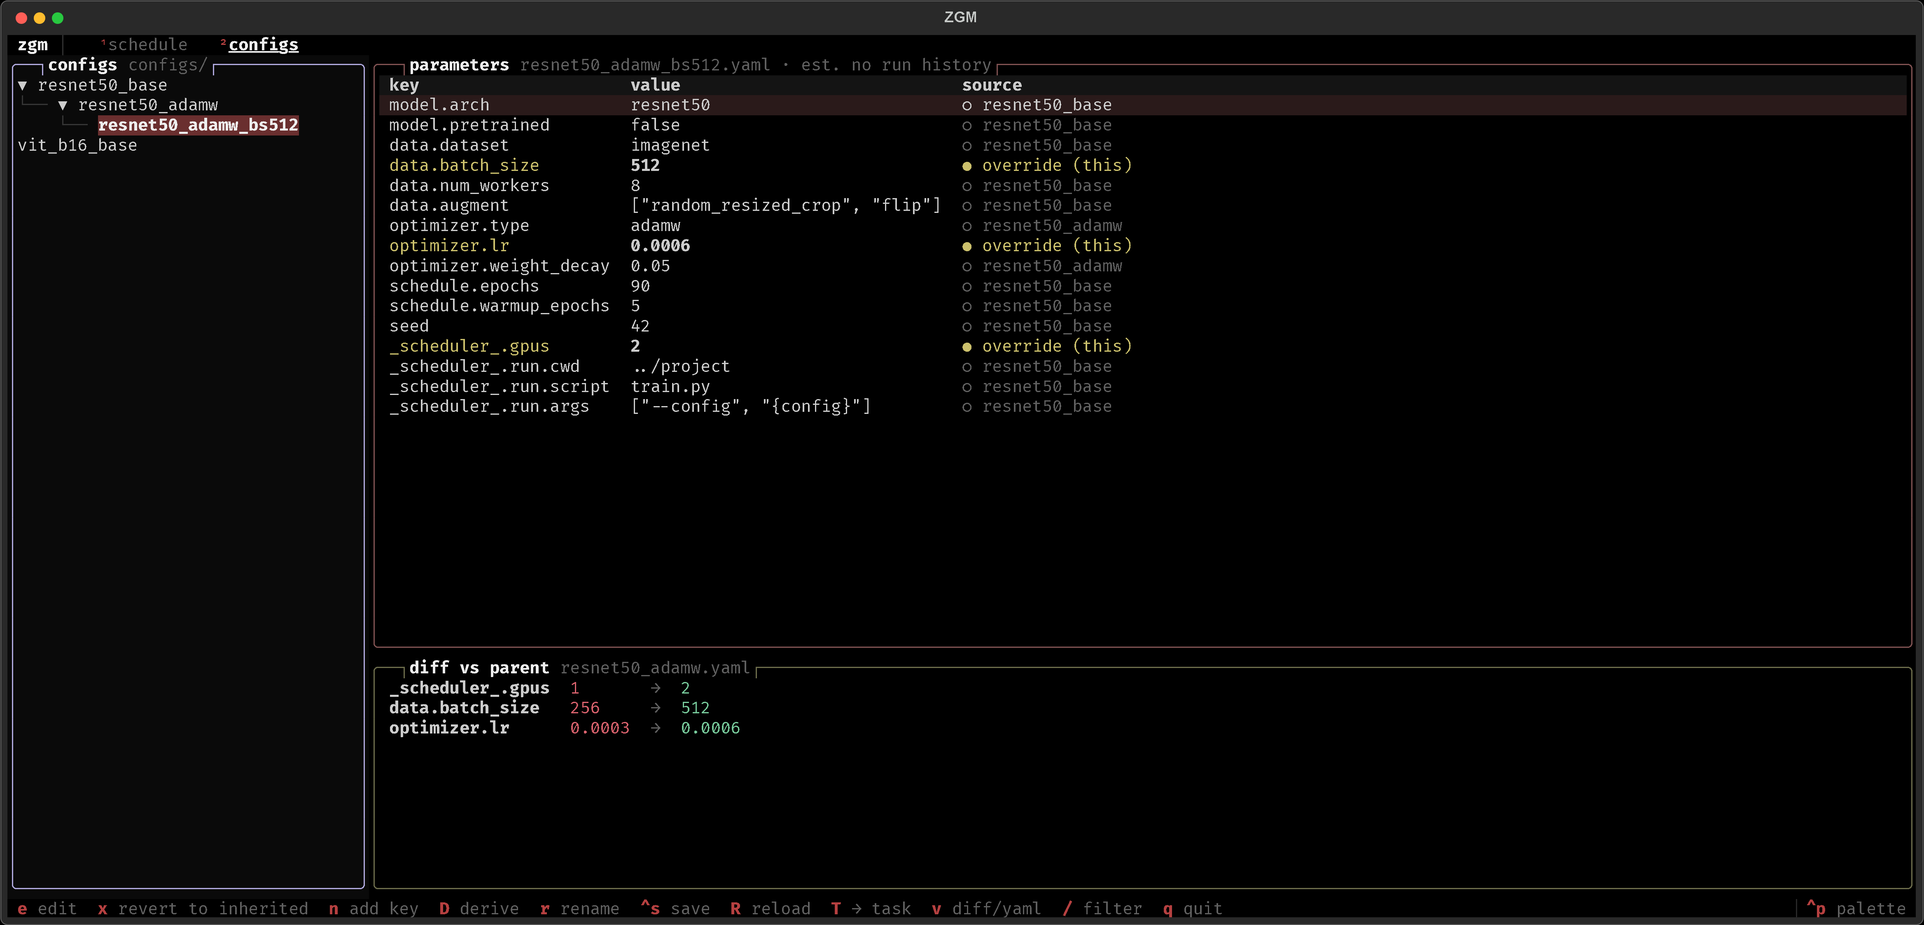
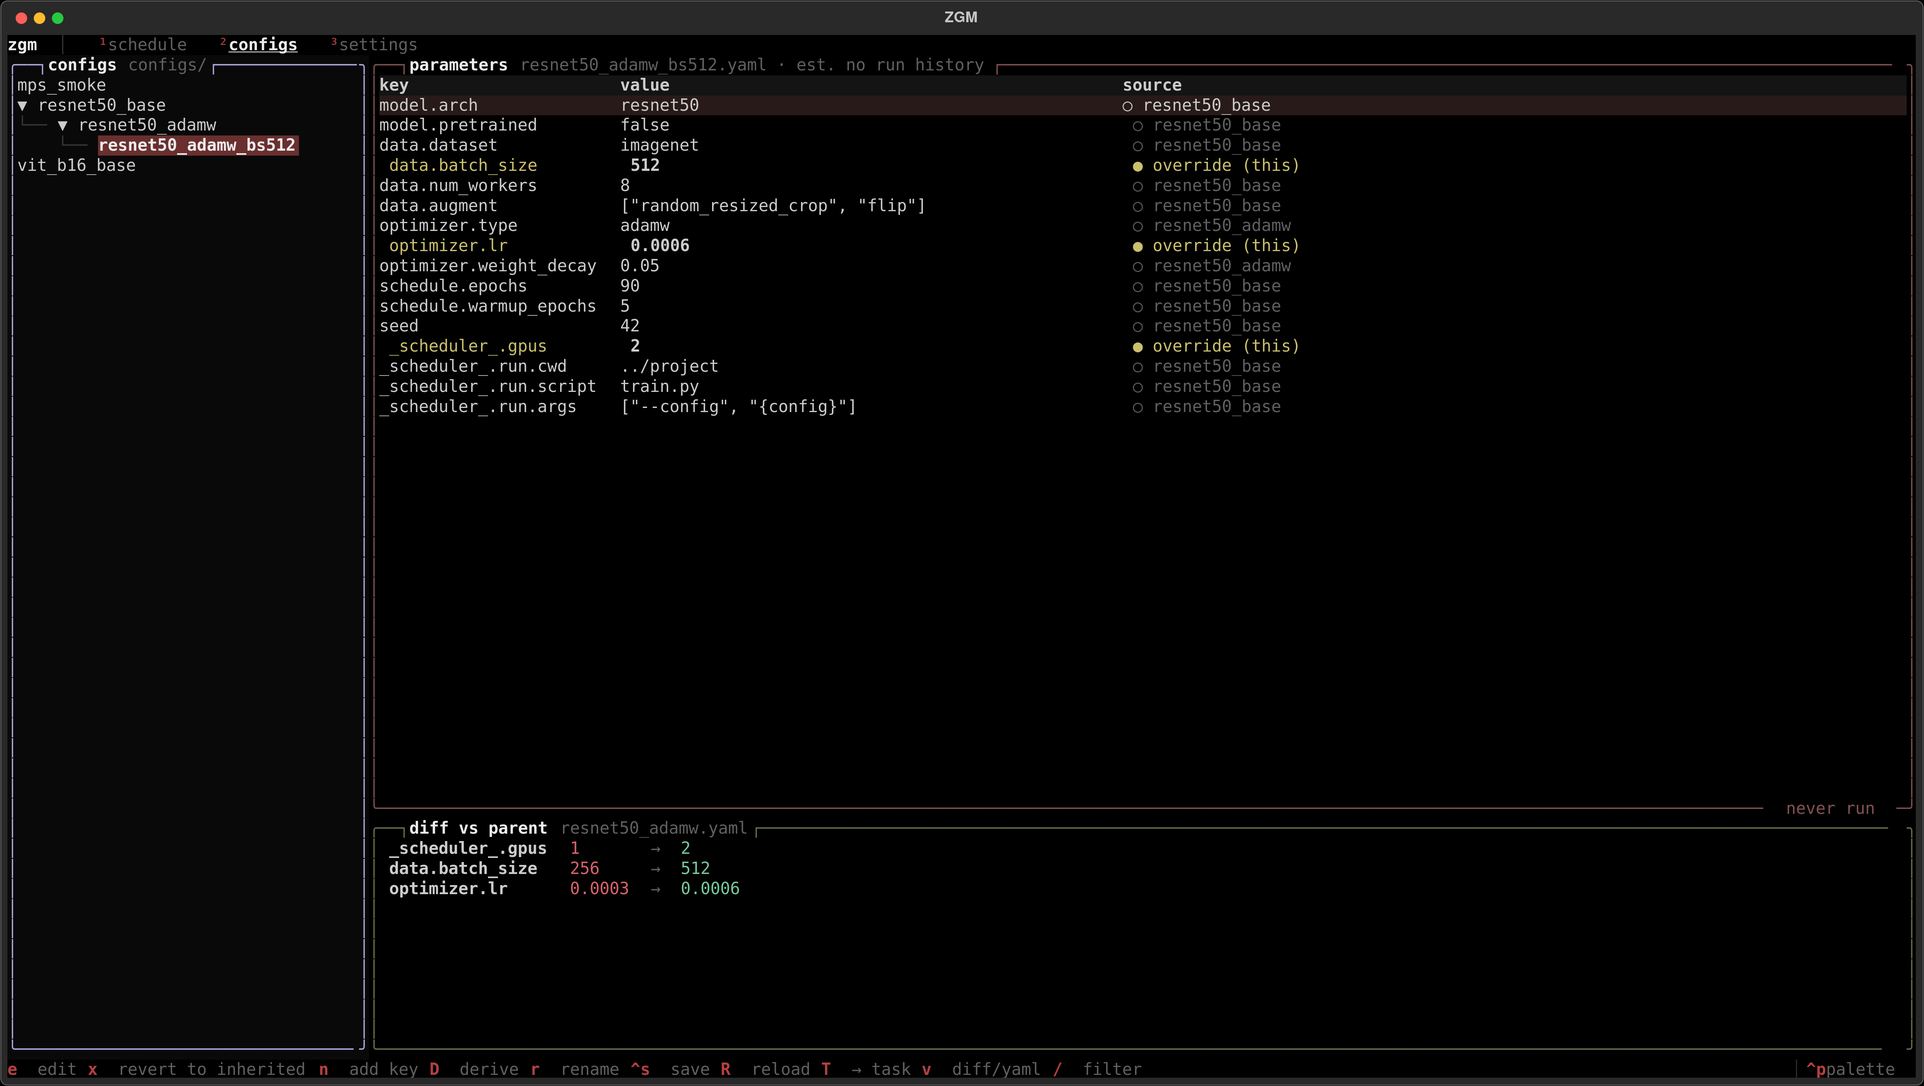
README: new screenshots and docs for the timeline modes
- Screenshots redone with scripts/make_screenshots.py: the time view with a
  selected run, the new task view, placing, and configs. The demo scene gets
  runs of a few minutes, a taller window (all four GPUs), and a made-up host
  name; without Chromium the script renders with rsvg-convert and keeps the
  PNGs small with a 256-colour palette.
- README, how-it-works and AGENTS describe the two timeline modes, now at
  70%, the rainbow selection, run-by-run and card-to-card keys, zooming
  around the selection, and where a new placement starts. how-it-works said
  `s` stops a task; it is `K`.
- Details no longer tell a finished run that it waits in the queue (failed
  and stopped runs, which do go back to it, still say so).

Claude-Session: https://claude.ai/code/session_01S2SjoknaHBsKbwFzc5VVDi

diff --git a/scripts/make_screenshots.py b/scripts/make_screenshots.py
@@ -2,9 +2,10 @@
 
     python scripts/make_screenshots.py [--browser PATH]
 
-Builds a demo scene (made-up tasks and GPUs, no real processes), renders the
-TUI to SVG with Textual, and turns each SVG into a sharp 2x PNG with a headless
-Chromium browser (Edge or Chrome; found automatically, or pass --browser).
+Builds a demo scene (made-up tasks, GPUs and host name, no real processes),
+renders the TUI to SVG with Textual, and turns each SVG into a sharp 2x PNG
+with a headless Chromium browser (Edge or Chrome; found automatically, or pass
+--browser), or with rsvg-convert where no Chromium is installed.
 Re-run it after changing the UI.
 """
 
@@ -15,6 +16,7 @@ import asyncio
 import os
 import re
 import shutil
+import socket
 import subprocess
 import sys
 import tempfile
@@ -24,9 +26,10 @@ from pathlib import Path
 
 ROOT = Path(__file__).resolve().parents[1]
 OUT = ROOT / "docs" / "images"
-SIZE = (190, 44)
+SIZE = (190, 52)
 
 os.environ["ZGM_MOCK_EXTERNAL"] = "3:30500:4242"  # another program on GPU 3
+socket.gethostname = lambda: "node07"  # the host panel's title: not this machine's name
 
 from zgm.app import ZGMApp  # noqa: E402
 from zgm.models import Assignment, AssignmentState, Task, TaskStatus  # noqa: E402
@@ -85,6 +88,16 @@ def scene(db: Path) -> None:
                       now - timedelta(hours=6, minutes=30), timedelta(hours=1, minutes=30))
     add_completed_run(store, task("tokenize-corpus", "python tok.py"), (0,),
                       now - timedelta(hours=5, minutes=40), timedelta(hours=1, minutes=10))
+    # short runs (minutes): visible in the time view, readable cards in the task view
+    for name, command, gpus, ago, minutes in (
+            ("eval-cifar10-c", "python eval.py --suite cifar10-c", (0,), 4 * 60 + 10, 4),
+            ("eval-cifar10-c", "python eval.py --suite cifar10-c", (0,), 3 * 60 + 50, 3),
+            ("ckpt-export", "python export.py --fmt safetensors", (1,), 3 * 60, 2),
+            ("vit-smoke-test", "python train.py --model vit_b16 --steps 200", (1, 2),
+             5 * 60 + 30, 35),
+            ("data-shard-check", "python prep.py --verify", (3,), 4 * 60, 6)):
+        add_completed_run(store, task(name, command, len(gpus)), gpus,
+                          now - timedelta(minutes=ago), timedelta(minutes=minutes))
     failed = store.add_task(task("bert-large-lr1e-3", "python finetune.py --lr 1e-3"))
     failed.status = TaskStatus.FAILED
     store.update_task(failed, quiet=True)
@@ -128,11 +141,16 @@ async def shoot(svg_dir: Path, configs: Path) -> list[Path]:
     shots = []
     async with app.run_test(size=SIZE) as pilot:
         await pilot.pause()
-        app.screen.queue.focus()
-        await pilot.press("right")  # select a waiting task: its details show
+        await pilot.press("t", "down")  # the timeline (time view), GPU 1
+        await pilot.press("left", "left", "left")  # run by run, back to vit-smoke-test
         await pilot.pause()
         shots.append(Path(app.save_screenshot("schedule.svg", str(svg_dir))))
-        await pilot.press("a", "left")  # place it: the preview shows where it would go
+        await pilot.press("t")  # the task view: one card per run
+        await pilot.pause()
+        shots.append(Path(app.save_screenshot("tasks.svg", str(svg_dir))))
+        app.screen.queue.focus()
+        await pilot.press("right", "right")  # a waiting task (clip-zero-shot)
+        await pilot.press("a", "down", "down")  # place it: right after now, then on GPU 2
         await pilot.pause()
         shots.append(Path(app.save_screenshot("placing.svg", str(svg_dir))))
         await pilot.press("escape", "2")
@@ -146,7 +164,8 @@ async def shoot(svg_dir: Path, configs: Path) -> list[Path]:
     return shots
 
 
-def find_browser(given: str | None) -> str:
+def find_browser(given: str | None) -> str | None:
+    """A Chromium browser, or None to fall back to rsvg-convert."""
     candidates = [given, shutil.which("msedge"), shutil.which("chrome"),
                   shutil.which("google-chrome"), shutil.which("chromium"),
                   r"C:\Program Files (x86)\Microsoft\Edge\Application\msedge.exe",
@@ -155,10 +174,19 @@ def find_browser(given: str | None) -> str:
     for c in candidates:
         if c and Path(c).exists():
             return c
-    sys.exit("no Chromium browser found: pass --browser PATH")
+    if shutil.which("rsvg-convert"):
+        return None
+    sys.exit("no Chromium browser and no rsvg-convert found: pass --browser PATH")
 
 
-def to_png(browser: str, svg: Path, png: Path) -> None:
+def to_png(browser: str | None, svg: Path, png: Path) -> None:
+    if browser is None:  # rsvg-convert: the terminal font comes from the system
+        subprocess.run(["rsvg-convert", "-z", "2", "-b", "black", str(svg), "-o", str(png)],
+                       check=True, capture_output=True, timeout=120)
+        if shutil.which("convert"):  # a terminal has few colours: a palette PNG is ~4x smaller
+            subprocess.run(["convert", str(png), "+dither", "-colors", "256", f"PNG8:{png}"],
+                           check=True, capture_output=True, timeout=120)
+        return
     text = svg.read_text(encoding="utf-8")
     width, height = (float(v) for v in re.search(
         r'viewBox="0 0 ([\d.]+) ([\d.]+)"', text).groups())

diff --git a/tests/test_ui.py b/tests/test_ui.py
@@ -1456,3 +1456,28 @@ async def test_task_view_arrows_only_land_on_cards(config_dir):
         await pilot.press("up")
         await pilot.pause()
         assert st.cursor_gpu == 0 and tl.slot_under_cursor() is not None
+
+
+async def test_details_of_a_finished_run_do_not_say_it_waits_in_the_queue(config_dir):
+    t, f = Task("done-run", "echo d", 1), Task("failed-run", "echo f", 1)
+    app = make_app(config_dir, [t, f])
+    now = datetime.now().replace(microsecond=0)
+    _finished(app, t, 0, now - timedelta(minutes=30), 60)
+    t.status = TaskStatus.COMPLETED
+    f.status = TaskStatus.FAILED  # failed runs go back to the queue: the line stays
+    async with app.run_test(size=SIZE) as pilot:
+        await pilot.pause()
+        import io
+
+        from rich.console import Console
+
+        from zgm.widgets.task_details import TaskDetails
+        details = app.screen.query_one(TaskDetails)
+        for task_, waits in ((t, False), (f, True)):
+            details.show(task_, app.store.assignments_for_task(task_.id))
+            await pilot.pause()
+            info = app.screen.query_one("#details-info")
+            out = Console(width=200, file=io.StringIO(), record=True)
+            out.print(getattr(info, "content", None) or info.renderable)
+            text = out.export_text()
+            assert ("waiting in the queue" in text) is waits

diff --git a/src/zgm/widgets/task_details.py b/src/zgm/widgets/task_details.py
@@ -12,7 +12,7 @@ from textual.app import ComposeResult
 from textual.containers import Horizontal
 from textual.widgets import Static
 
-from ..models import Assignment, AssignmentState, Task, format_estimate
+from ..models import Assignment, AssignmentState, Task, TaskStatus, format_estimate
 from .config_chain import ConfigChain
 from .palette import task_color
 from .task_card import STATUS_STYLE
@@ -102,7 +102,7 @@ class TaskDetails(Horizontal, can_focus=True):
                 "GPU pref / actual",
                 f"{_gpus(a.preferred_gpu_ids)} / {_gpus(a.actual_gpu_ids)}",
             )
-        else:
+        elif task.status != TaskStatus.COMPLETED:  # finished runs are not in the queue
             grid.add_row("Planned", Text("waiting in the queue — press a to place it", style="dim"),
                          "", "")
         for a in hist[-2:]:

diff --git a/README.md b/README.md
@@ -4,9 +4,9 @@
 
 You have a few GPUs and a list of training runs. Put the runs in the queue, say which GPUs each one gets, and zgm starts each run as soon as its GPUs are free, one after another. You can watch it all on one screen: what's running, what's next, and what already finished.
 
-![The zgm dashboard: waiting tasks at the top, details in the middle, and a timeline of the GPUs at the bottom](docs/images/schedule.png)
+![The zgm dashboard: the host, the waiting tasks, a timeline of the GPUs, and the selected job's details](docs/images/schedule.png)
 
-<sub>Demo data. Left of the red line is what already ran; right of it, what is running and what comes next, in order.</sub>
+<sub>Demo data, timeline in the time view. The red line is now: left of it, what already ran and what is running, to scale; right of it, the estimated queue, and on the far right the jobs whose start is not known yet. The rainbow bar marks the selected run. GPU 3 is in use by another program (`! other`).</sub>
 
 > **Scripts and AI agents:** see [AGENTS.md](AGENTS.md) for using zgm from the command line only, with JSON output.
 
@@ -78,13 +78,17 @@ The schedule page has these parts, top to bottom:
 
 - **host**: this machine's CPU, memory, and the disks of the state dir and the home directory (red when less than 10% is free: a full disk makes jobs and zgm fail). In cluster mode the groups of GPUs (e.g. your Slurm jobs or Macs) are listed beside it.
 - **queue**: jobs that are waiting to be given GPUs. New jobs land here when you add them without GPUs, and so do stopped or failed jobs. Jobs marked for auto-fill are on the left, the others (manual) on the right, each side sorted by priority, highest first.
-- **timeline**: one row per GPU, with its memory and load on the left. It has two views; with the timeline focused, `t` switches them:
-  - **time**: the whole strip is to scale. History uses actual times; running and queued jobs use their estimates, so their blocks sit where they will run. Queued jobs with no estimate cannot be placed on the axis and wait in a `start unknown` tail on the right. The red line is now, 70% of the way across (also in the task view).
-  - **tasks**: one fixed-width card per run, in order: the last 200 finished runs, then running and queued jobs. A run of a few seconds is as readable as one of several hours.
+- **timeline**: one row per GPU, with its memory and load on the left. It has two views; with the timeline focused, `t` switches them. In both, the red line is now, 70% of the way across.
+  - **time**: the whole strip is to scale. History uses actual times; running and queued jobs use their estimates, so their blocks sit where they will run. A run of a few seconds still gets a mark (`▮`). Queued jobs with no estimate cannot be placed on the axis and wait in a `start unknown` tail on the right.
+  - **tasks**: one fixed-width card per run: each GPU's most recent finished runs (of the last 200) right before now, then what is running and what is queued. A run of a few seconds is as readable as one of several hours, and each card says how long the run took, when it started, and whether it succeeded (`✓`) or failed (`✗`).
   A job using several GPUs spans several rows. Both views support placing and dragging jobs.
 - **details**: everything about the selected job. On the right, its config as the configs page's tree shows it, cut down to the config and its parents.
 
-To give a job GPUs, select it in the queue and press `a`. A preview shows where it would go. Move it with the arrow keys and press `Enter`, or drag the card with the mouse.
+![The task view: one card per run, each GPU's recent history next to now, then what is running and queued](docs/images/tasks.png)
+
+**Moving around the timeline.** The selected run has a rainbow bar under it. `←` / `→` go to the previous / next run on the GPU, however short or far apart (the time view pans to it), and `↑` / `↓` to another GPU; in the task view they only stop on cards and stay put at the ends. `ctrl`+`+` / `ctrl`+`-` zoom (the time scale, or the card width) around the selected run, or around now when nothing is selected. `h` / `l` pan, `g` goes back to now.
+
+To give a job GPUs, select it in the queue and press `a`. A preview shows where it would go, starting on the first GPU right after now (ahead of what is queued there). Move it with the arrow keys and press `Enter`, or drag the card with the mouse.
 
 ![Placing a job: the preview shows its place in line and its GPUs before you confirm](docs/images/placing.png)
 
@@ -98,7 +102,7 @@ After 10 minutes without a key or the mouse the view stops redrawing (`IDLE` at 
 | `Tab` / `Shift+Tab` | go to the next / previous panel, top to bottom |
 | `f` | show the focused panel full screen, or back |
 | `a` | place the selected job on GPUs |
-| `←` `→` / `↑` `↓` | while placing: move it earlier/later in line, or to other GPUs |
+| `←` `→` / `↑` `↓` | on the timeline: previous / next run, or another GPU; while placing: earlier / later in line, or other GPUs |
 | `Enter` / `Esc` | confirm / cancel; on the timeline, `Enter` picks up a queued job to move it |
 | `[` `]` | move the selected job one place earlier / later |
 | `u` | take a job off the timeline, back to the queue |
@@ -108,7 +112,7 @@ After 10 minutes without a key or the mouse the view stops redrawing (`IDLE` at 
 | `p` | pause or resume starting jobs automatically |
 | `1` `2` `3` | schedule / configs / settings view |
 | `t` | focus the timeline; on the timeline, switch between the time view and the task view |
-| `h` `l` / `ctrl`+`+` `ctrl`+`-` | timeline: pan / zoom the time, or scroll the cards / change their width (`+` `-` work too) |
+| `h` `l` / `ctrl`+`+` `ctrl`+`-` | timeline: pan / zoom around the selected run (the time scale, or the card width; `+` `-` work too) |
 | `g` | on the timeline: back to now |
 | `Esc` | cancel, or leave full screen; otherwise a menu with Options and Exit (running jobs keep running) |
 
@@ -203,6 +207,7 @@ zgm --config-dir examples/configs --db demo.db --runtime local   # T on a config
 
 ```bash
 .venv/bin/pip install -e ".[dev]"        # add ",ray" to also test the Ray runtime
-.venv/bin/python -m pytest -q            # about a minute
+.venv/bin/python -m pytest -q            # about two minutes
 .venv/bin/python scripts/make_screenshots.py   # redo the pictures above after changing the UI
+                                               # (renders with Chromium, or rsvg-convert)
 ```

diff --git a/docs/how-it-works.md b/docs/how-it-works.md
@@ -20,9 +20,11 @@ The timeline (`t` to focus it, then `t` again to switch) shows the same work in 
 - **time**: one continuous axis. Finished runs use their actual start and end, running work uses its actual start and estimated end, and queued work uses its estimated start and end, so the future is drawn where it will happen. `ctrl`+`+` / `ctrl`+`-` (or `+` / `-`) change the scale and `h` / `l` pan; `g` returns to now. Queued work whose start is unknown (no run history, or behind such a run) cannot be placed on the axis, so it waits in a fixed-width `start unknown` tail at the right.
 - **tasks**: fixed-width cards for the last 200 finished runs, then running and queued work, with a `now` boundary between them. Each GPU's most recent runs sit right before the boundary (a multi-GPU run keeps one column on all its rows). A one-second run gets the same readable card as a one-hour run. `h` / `l` scroll the cards; `ctrl`+`+` / `ctrl`+`-` widen / narrow them.
 
-In both views "now" is 70% of the way from the left, so most of the strip shows what happened and the right part what comes next.
+In both views "now" is 70% of the way from the left, so most of the strip shows what happened and the right part what comes next. In the time view that is 70% of the whole strip, so the `start unknown` tail appearing (for instance while dragging a job with no estimate) does not move it; the tail only takes room right of now.
 
-Both views accept placements and drags. In the card view the drop point selects a queue position directly. In the time view it selects the nearest insertion point on that GPU's timeline; the ghost then shows the estimated interval, which can differ from the drop time because the queue's order (and its estimates) decide when a job really starts. Dropping on finished history is not a placement.
+**Selection and keys.** The selected run is marked by a rainbow bar in the gap under it, and drawn last, so runs that share its cells at a coarse zoom never hide it. In the time view `←` / `→` step from run to run on the cursor's GPU in time order (a run of seconds is reachable even when it shares a cell with another), panning to runs out of view; the selection follows that run across zooms. In the task view the arrows only land on cards: `←` / `→` stop at the ends of the GPU's row, and `↑` / `↓` skip GPUs with no card and stop where no GPU that way has one. Zooming (`ctrl`+`+` / `ctrl`+`-`) keeps the selected run (or card) where it is on screen; with nothing selected it keeps now in place. While placing a job, the arrows move it one cell or one place at a time instead, to choose where it goes.
+
+Both views accept placements and drags. A new placement (`a`, or a card dragged from the queue) starts on the first GPU, right after now: behind what runs there, ahead of what is queued there. In the task view the drop point selects a queue position directly. In the time view it selects the nearest insertion point on that GPU's timeline; the ghost then shows the estimated interval, which can differ from the drop time because the queue's order (and its estimates) decide when a job really starts. Dropping on finished history is not a placement.
 
 ## Estimates come only from run history
 
@@ -63,7 +65,7 @@ Placeholders in `args`, `command` and `env`, substituted when the task starts:
 - `{path}`: the config file itself, with `_base_` intact.
 - `{name}`: the task name. `{num_gpus}`: its GPU count.
 
-**What the process gets.** `CUDA_VISIBLE_DEVICES` is set to the GPUs the task was planned on, so your code just uses `cuda:0..n-1`. `CUDA_DEVICE_ORDER=PCI_BUS_ID` makes CUDA number GPUs the way `nvidia-smi` and zgm do. CUDA's default is fastest first, which on a machine with mixed GPUs puts another card behind "GPU 2". It also gets `ZGM_NUM_GPUS`, `ZGM_GPU_IDS`, `ZGM_TASK_ID`, `ZGM_TASK_NAME`, and `PYTHONUNBUFFERED=1` so logs appear as they are written. Exit code 0 means success, and only successful runs feed the duration estimates. stdout and stderr go to `<log-dir>/<assignment id>.log`; the Task Details pane shows the path. Stopping a task (`s`) kills its whole process tree, from any zgm on the database.
+**What the process gets.** `CUDA_VISIBLE_DEVICES` is set to the GPUs the task was planned on, so your code just uses `cuda:0..n-1`. `CUDA_DEVICE_ORDER=PCI_BUS_ID` makes CUDA number GPUs the way `nvidia-smi` and zgm do. CUDA's default is fastest first, which on a machine with mixed GPUs puts another card behind "GPU 2". It also gets `ZGM_NUM_GPUS`, `ZGM_GPU_IDS`, `ZGM_TASK_ID`, `ZGM_TASK_NAME`, and `PYTHONUNBUFFERED=1` so logs appear as they are written. Exit code 0 means success, and only successful runs feed the duration estimates. stdout and stderr go to `<log-dir>/<assignment id>.log`; the Task Details pane shows the path. Stopping a task (`K`) kills its whole process tree, from any zgm on the database: SIGTERM to the task's process group, then SIGKILL after a few seconds, so a task that ignores SIGTERM is stopped too.
 
 **Environments.** With a Python path, its directory goes first on PATH, so tools like `torchrun` come from the same environment. With conda, zgm runs `conda run` once per env to capture the activated variables (activation hooks included) and caches them. The process then starts directly with those variables: no wrapper process, and output is live. zgm finds conda through `CONDA_EXE`, PATH, or the usual install folders (`~/anaconda3`, `~/miniconda3`, `~/miniforge3`, `~/mambaforge`).
 

diff --git a/AGENTS.md b/AGENTS.md
@@ -261,7 +261,7 @@ Everything lives next to the database, in the state dir: `$ZGM_HOME`, default `~
 
 ```bash
 python3 -m venv .venv && .venv/bin/pip install -e ".[dev,ray]"
-.venv/bin/python -m pytest -q        # ~225 tests, ~1.5 min; Ray tests skip without [ray]
+.venv/bin/python -m pytest -q        # ~310 tests, ~2 min; Ray tests skip without [ray]
 ```
 
 Layout (`src/zgm/`):
@@ -288,6 +288,7 @@ Conventions:
 - Placement goes through `AssignmentService.assign/move` (keyboard, mouse and `zgm submit` alike). The scheduling rule lives in `simulate()` and `ready_to_start()`; keep them consistent.
 - Execution logic belongs in `services/executor.py`, not in the TUI. The UI never imports Ray.
 - State shared between processes goes in SQLite (other zgm processes notice through `PRAGMA data_version`), or in a run's files. Never only in memory.
+- After changing what the TUI shows, re-run `scripts/make_screenshots.py` (a made-up demo scene: no real host, task or path names) so the README pictures match.
 - Tests that start real processes must clean them up. Windows matters: venv `python.exe` is a launcher shim that starts the real interpreter as a child, so the pid you spawn is not the pid that runs, and a file can't be replaced while another process reads it.
 - No NVIDIA GPU is needed for tests: NVML is faked (`tests/test_gpu_usage.py`), and `--mock-gpus` / `ZGM_MOCK_GPUS` give fake devices. No cluster either: `tests/test_cluster.py` fakes a backend and a transport, and the remote-run tests put a fake `ssh` on PATH.
 - Nothing outside `cluster/<backend>.py` knows a backend. A new one (a list of PCs, another scheduler) is a class implementing `cluster.base.Backend`, one entry in `cluster.BACKENDS`, and tests like `tests/test_slurm_backend.py`; a new way to reach hosts is a class in `cluster/transport.py`; a new kind of GPU (not NVML) is a provider in `services/gpu_discovery.py`.
